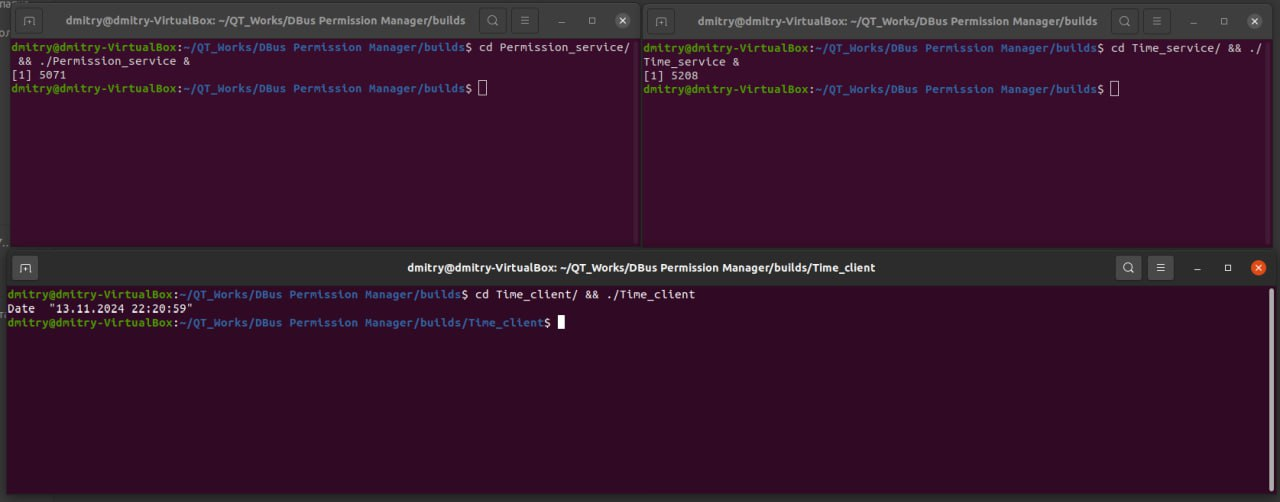
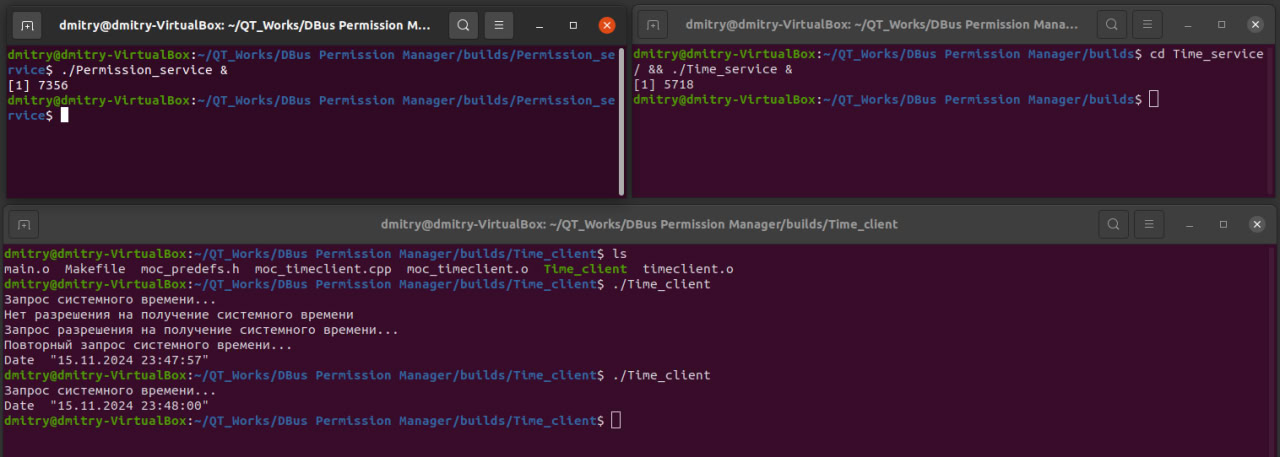
Добавил вывод лога для большей наглядности и сменил изображение примера работы в README

Changed region(s): [[0.0, 0.0, 1.0, 1.0]]

diff --git a/Time_client/timeclient.cpp b/Time_client/timeclient.cpp
@@ -25,16 +25,22 @@ QString TimeClient::getSystemTimestamp() {
     return "";
   }
 
+  qInfo() << "Запрос системного времени...";
+
   //Попытка запросить время
   QDBusMessage responce = iface.call("GetSystemTime");
   QDBusReply<quint64> reply;
 
   //Если нет разрешения, то запрашиваем его и повторяем запрос времени
   if (responce.arguments().at(0) == Permissions::UnauthorizedAccess) {
+    qInfo() << "Нет разрешения на получение системного времени";
+    qInfo() << "Запрос разрешения на получение системного времени...";
     //Просим разрешение
-    if (!getPermission(Permissions::SystemTime))
+    if (!getPermission(Permissions::SystemTime)) {
       return "";
+    }
 
+    qInfo() << "Повторный запрос системного времени...";
     reply = iface.call("GetSystemTime");
   } else {
     reply = responce;
